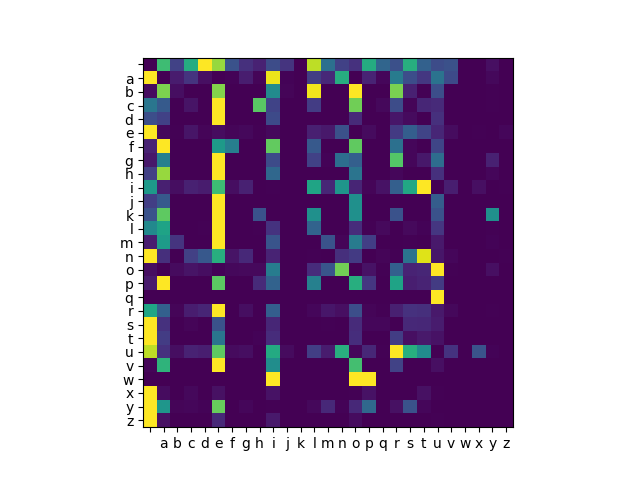
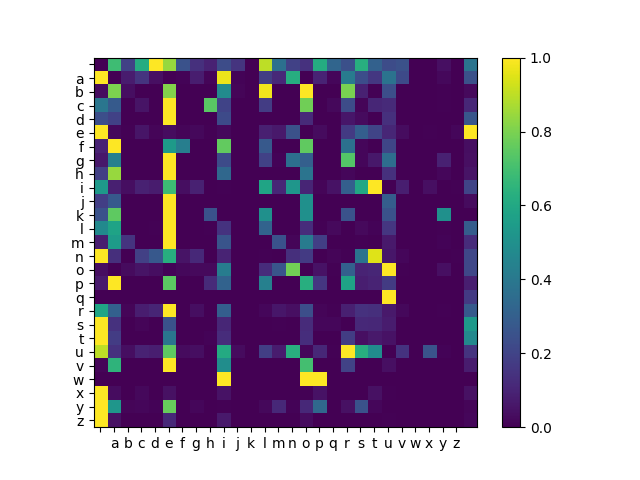
Add frequency column at the end of graphs

diff --git a/src/display.py b/src/display.py
@@ -10,6 +10,9 @@ from load import load
 
 images_dir = os.path.join(os.path.dirname(__file__), '../docs/images')
 
+def to_array_string(array):
+    return np.array(np.floor(array * 100)/100, dtype=str)
+
 if __name__ == "__main__":
     # execute only if run as a script
     markov_chain = load()
@@ -17,8 +20,11 @@ if __name__ == "__main__":
     filename = '{}.png'.format(markov_chain.name)
     filepath = os.path.join(images_dir, filename)
 
-    matrix = np.nan_to_num(markov_chain.transition_matrix / np.amax(markov_chain.transition_matrix, axis=1))
+    max_per_row = np.amax(markov_chain.transition_array, axis=1)[:,None]
+    matrix = np.hstack((np.nan_to_num(markov_chain.transition_array / max_per_row), (max_per_row / np.max(max_per_row))))
+    
     plt.imshow(matrix, cmap="viridis")
+    plt.colorbar()
 
     # Display letters in ticks
     plt.xticks(np.arange(len(markov_chain.letters_list)), markov_chain.letters_list)
